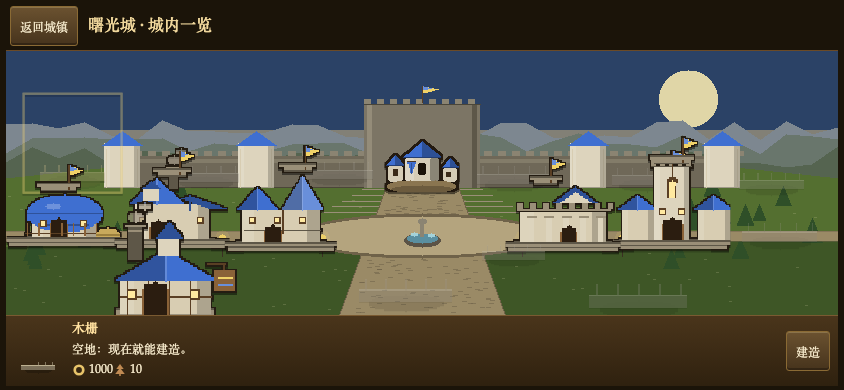
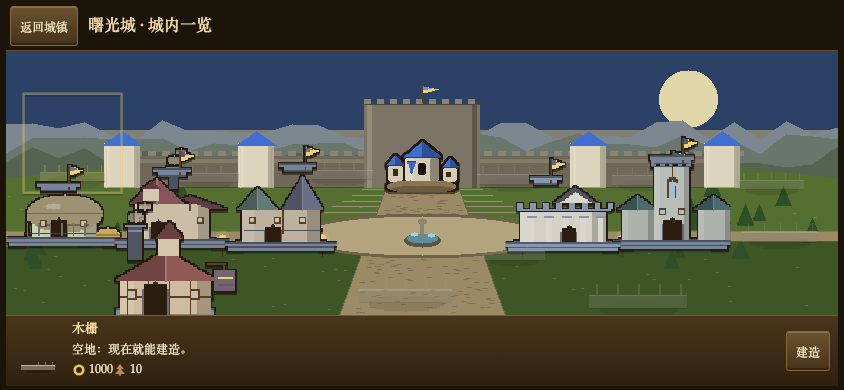
城景建材分化：16 座各有材质，去掉一城蓝顶白墙
- 新增 TOWN_BUILDING_MATERIALS / scenePaletteOf：红瓦/茅草/石板/砖窑/铜绿/水晶 16 套，族色退成旗、饰带与轻偏色
- 屋顶族色 22%、墙 8%、石/木 38%，四族同功能建筑色距仍 >=6（S2 16/16）
- probe:townview 加 S7 建材多样性 + N0e sameTone 负向臂；50 门全绿（3m58s）
- 重出 16 张 x8、实拍和全建成预览；目检抓到并修掉红瓦泛紫

Changed region(s): [[0.5853, 0.4, 0.8626, 0.6462], [0.0, 0.4615, 0.2773, 0.7692], [0.154, 0.4, 0.4005, 0.6462]]

diff --git a/homm-web/src/render/townSceneArt.ts b/homm-web/src/render/townSceneArt.ts
@@ -30,6 +30,13 @@ export const TOWN_BUILDING_IDS = [
 export const TOWN_ROAD_COLOR = '#9a8a66';
 export const TOWN_PLAZA_COLOR = '#b4a47e';
 
+/** 负向臂：`sameShape` 全塌成尖顶小屋，`sameBase` 底子同形，`noStreet` 抽掉街道，
+ *  `sameTone` 把所有建材塌回"一族一色"（用户批评的旧配色）。 */
+let sceneArtBreaks = { sameShape: false, sameBase: false, noStreet: false, sameTone: false };
+export function setSceneArtBreaks(v: Partial<typeof sceneArtBreaks>): void {
+  sceneArtBreaks = { ...sceneArtBreaks, ...v };
+}
+
 interface ScenePalette {
   wall: string; wallDark: string; wallLite: string;
   roof: string; roofDark: string;
@@ -41,26 +48,64 @@ interface ScenePalette {
   outline: string;
 }
 
-function paletteOf(owner: SpriteOwner): ScenePalette {
+/**
+ * 16 座各自的建材。阵营色只作 22% 的轻微偏色 + 旗/饰带/窗光，
+ * 所以同一座城里能同时看到红瓦、茅草、石板、砖窑、铜绿和水晶，
+ * 但四族同功能建筑仍能被认出来（探针 S2 量四族色距）。
+ */
+export interface BuildingMaterial { roof: string; wall: string; cloth: string; glass: string; stone: string; }
+export const TOWN_BUILDING_MATERIALS: Readonly<Record<string, BuildingMaterial>> = {
+  tavern:   { roof: '#a95432', wall: '#d9c39a', cloth: '#8c3f28', glass: '#ffe3a0', stone: '#a89a7e' },
+  market:   { roof: '#c28a3a', wall: '#e2cba3', cloth: '#d8b05c', glass: '#f6d88a', stone: '#a89a7e' },
+  townhall: { roof: '#55677f', wall: '#cfc6a8', cloth: '#3f4f66', glass: '#bcd8e0', stone: '#9a9584' },
+  workshop: { roof: '#5b534a', wall: '#9d7f67', cloth: '#7a4a32', glass: '#e8c98a', stone: '#8a7a68' },
+  wall1:    { roof: '#7a4f2f', wall: '#8a6238', cloth: '#6a4226', glass: '#f0d268', stone: '#9a8f78' },
+  wall2:    { roof: '#8f3f35', wall: '#a9a393', cloth: '#5e5748', glass: '#e8d6a0', stone: '#9a8f78' },
+  wall3:    { roof: '#6f6a5a', wall: '#bdb39d', cloth: '#8a7c62', glass: '#e8d6a0', stone: '#9a8f78' },
+  banner:   { roof: '#9a6a42', wall: '#b9a084', cloth: '#5a3f24', glass: '#ffe9a0', stone: '#9a8f78' },
+  dwell1:   { roof: '#b99a58', wall: '#cfd3a8', cloth: '#8a7a48', glass: '#e0e8b0', stone: '#9a8f78' },
+  dwell2:   { roof: '#9c4b3c', wall: '#d8c5a2', cloth: '#7a3a2e', glass: '#ffe0a0', stone: '#9a8f78' },
+  dwell3:   { roof: '#6a7f5a', wall: '#c9b79a', cloth: '#8b6b4a', glass: '#ffe9a0', stone: '#9a8f78' },
+  dwell4:   { roof: '#7d7166', wall: '#e0d9c4', cloth: '#6a6258', glass: '#cfe0e8', stone: '#b3ac98' },
+  dwell5:   { roof: '#4d6b55', wall: '#b7b8a8', cloth: '#3c5544', glass: '#cfe0d8', stone: '#9a8f78' },
+  guild1:   { roof: '#4f9c86', wall: '#aeb9ad', cloth: '#3a7a6a', glass: '#a8e0d0', stone: '#948f80' },
+  guild2:   { roof: '#6c5a9a', wall: '#c8bed0', cloth: '#8372b3', glass: '#d8c8f0', stone: '#9a8f78' },
+  guild3:   { roof: '#7d5aa6', wall: '#b3a6b8', cloth: '#5a3f7a', glass: '#8fe6e0', stone: '#8a7f96' },
+};
+
+function paletteOf(owner: SpriteOwner, id?: string): ScenePalette {
   const { roof: faction } = ownerPalette(owner);
-  const wall = owner === 'p1' ? '#d8cdb2' : owner === 'p2' ? '#b9a084' : owner === 'p3' ? '#c6d0a6' : '#bfb4c6';
+  const mat = id && !sceneArtBreaks.sameTone ? TOWN_BUILDING_MATERIALS[id] : undefined;
+  const factionWall = owner === 'p1' ? '#d8cdb2' : owner === 'p2' ? '#b9a084' : owner === 'p3' ? '#c6d0a6' : '#bfb4c6';
+  const roof = mat ? mix(mat.roof, faction, 0.22) : faction;
+  const wall = mat ? mix(mat.wall, faction, 0.08) : factionWall;
+  const stone = mat ? mix(mat.stone, faction, 0.38) : '#9a8f78';
+  const woodMat = mat ? mix('#8a6238', mat.roof, 0.18) : (owner === 'p4' ? '#6a4a34' : '#8a6238');
+  const wood = mat ? mix(woodMat, faction, 0.38) : woodMat;
+  const clothBase = mat?.cloth ?? shade(faction, 0.22);
   return {
     wall,
     wallDark: shade(wall, -0.22),
     wallLite: shade(wall, 0.14),
-    roof: faction,
-    roofDark: shade(faction, -0.28),
-    wood: owner === 'p4' ? '#6a4a34' : '#8a6238',
+    roof,
+    roofDark: shade(roof, -0.28),
+    wood,
     woodDark: '#5a3f24',
     accent: owner === 'p1' ? '#f0d268' : owner === 'p2' ? '#ff9a4a' : owner === 'p3' ? '#b6e07a' : '#d8a8ff',
-    glass: owner === 'p4' ? '#e0b0ff' : '#ffe9a0',
-    stone: '#9a8f78',
-    stoneDark: '#5e5748',
-    cloth: shade(faction, 0.22),
-    clothDark: shade(faction, -0.12),
+    glass: mat ? mix(mat.glass, faction, 0.30) : (owner === 'p4' ? '#e0b0ff' : '#ffe9a0'),
+    stone,
+    stoneDark: shade(stone, -0.38),
+    cloth: mat ? mix(clothBase, faction, 0.45) : shade(faction, 0.22),
+    clothDark: shade(clothBase, -0.12),
     metal: '#7d8790',
     outline: '#241c12',
   };
+}
+
+/** 给闸门读"这座实际用的建材"，不许探针自己抄一份色表。 */
+export function scenePaletteOf(owner: SpriteOwner, id: string): Pick<ScenePalette, 'roof' | 'wall' | 'cloth' | 'glass'> {
+  const p = paletteOf(owner, id);
+  return { roof: p.roof, wall: p.wall, cloth: p.cloth, glass: p.glass };
 }
 
 /* ------------------------------------------------------------------ 笔法 */
@@ -463,16 +508,10 @@ const RECIPES: Record<string, Recipe> = {
   },
 };
 
-/** 闸门负向对照：`sameShape` 全塌成尖顶小屋，`sameBase` 底子同形，`noStreet` 抽掉街道。 */
-let sceneArtBreaks = { sameShape: false, sameBase: false, noStreet: false };
-export function setSceneArtBreaks(v: Partial<typeof sceneArtBreaks>): void {
-  sceneArtBreaks = { ...sceneArtBreaks, ...v };
-}
-
 /** 80×80 的场景建筑；tier 只影响附加装饰，不改骨架。 */
 export function buildSceneBuilding(owner: SpriteOwner, id: string, tier = 1): PixBuf {
   const pb = new PixBuf(SCENE_BUILDING_SIZE, SCENE_BUILDING_SIZE);
-  const p = paletteOf(owner);
+  const p = paletteOf(owner, id);
   const recipe = sceneArtBreaks.sameShape ? genericSpire : (RECIPES[id] ?? RECIPES.tavern!);
   groundShadow(pb, SCENE_BUILDING_SIZE / 2, B + 2, 28);
   const t = Math.max(1, Math.min(3, tier | 0));

diff --git a/production/m9-town-view-2026-11-19/README.md b/production/m9-town-view-2026-11-19/README.md
@@ -9,6 +9,22 @@
 1. **单体：按建筑原型重新设计剪影**，不再共用一套尖顶模板。
 2. **整体：先搭城市骨架**——城堡远景、城墙塔楼、城门、主干道、中央广场、喷泉、支路、路灯——再让建筑沿街按远/中/近三档落位。
 
+第二轮实拍又得到一条批评：**“整体好看很多，但所有房都是蓝房顶、白房墙，略显单调。”** 这条也对：上一版虽然轮廓分开了，但材质仍是一族一色，同一座城里 16 座共享同一个屋顶色。于是补了第三轮**建材分化**：每座建筑一套材质，阵营色退成旗、饰带、窗光与轻微偏色（屋顶 22%、墙 8%、石/木 38%），既能在一城里看到红瓦、茅草、石板、砖窑、铜绿和水晶，也仍能看出是谁的城。
+
+## 建材语言（16 套）
+
+| 材质族 | 建筑 | 观感 |
+|---|---|---|
+| 暖陶瓦 | 酒馆、木屋、排屋 | 红陶 / 砖红坡顶，配奶油灰泥墙 |
+| 市集布棚 | 市场 | 赭黄条纹棚 + 木摊 |
+| 石板 / 冷灰 | 市政厅、宅邸、庄园、要塞 | 蓝灰或暖灰石墙、平顶城垛，配浅色墙 |
+| 茅草 / 麦秆 | 农舍、木栅 | 弧顶草屋、深色木栅 |
+| 砖窑 / 铁锈 | 工坊 | 锯齿厂棚 + 烟熏砖墙 + 水车 |
+| 铜绿 / 学院紫 | 一阶、二阶行会 | 穹顶铜绿与紫石，配星盘 |
+| 水晶 | 三阶行会 | 青色晶体 + 法环，仍是全场唯一的尖塔 |
+
+阵营色没有被删掉：旗、墙头漆带、钟面、窗光和路灯仍是四族色；只是不再把整片屋顶染成阵营色。
+
 ## 建筑语言（16 座逐类设计）
 
 | 类别 | 建筑 | 轮廓语言 | 识别件 |
@@ -43,10 +59,10 @@
 
 | 文件 | 改动 |
 |---|---|
-| `src/render/townSceneArt.ts` | 16 座原型重画；新增 `castleBackdrop()` / `townInfrastructure()`；`TOWN_PLOTS` 带 `scale`；负向臂 `sameShape` / `sameBase` / `noStreet` |
+| `src/render/townSceneArt.ts` | 16 座原型重画；新增 `castleBackdrop()` / `townInfrastructure()`；`TOWN_PLOTS` 带 `scale`；新增 `TOWN_BUILDING_MATERIALS` / `scenePaletteOf()`；负向臂 `sameShape` / `sameBase` / `noStreet` / `sameTone` |
 | `src/ui/TownDialog.ts` | 地块按 `plot.scale` 设宽，城堡落到城门前 |
-| `tools/probes/townview.mjs` | 新增 S5「16 座两两 IoU <0.88」、S6「路面色像素 >5000」与 N0d「抽掉街道 = 0」；S4 改测四族特征区域 |
-| `tools/GATES.md` | 重登记 `probe:townview` 的 S0–S6 / N0 / N0b / N0d / U0–U8 / N1–N3 |
+| `tools/probes/townview.mjs` | 新增 S5「16 座两两 IoU <0.88」、S6「路面色像素 >5000」、S7「16 套建材且帧里真画出」与 N0d「抽掉街道 = 0」/ N0e「sameTone 一族一色」；S4 改测四族特征区域 |
+| `tools/GATES.md` | 重登记 `probe:townview` 的 S0–S7 / N0 / N0b / N0d / N0e / U0–U8 / N1–N3 |
 | `production/town-scene-redraw-2026-11-19/` | 新 ×8 单体、四族底子、实拍与全建成预览 |
 
 ## 读数（`node tools/probes/townview.mjs --gate` → rc=0）
@@ -54,24 +70,25 @@
 - 美术层：64 张 80×80 无空帧；四族结构逐像素相同、材质色距全部 ≥6；16 座 L3 面积全大于 L1。
 - **S5 轮廓多样性：16 座两两最大 IoU 0.839 <0.88**；上一版同款尖顶会到 1.000。
 - **S6 城市骨架：路面色 15,949 px**；`noStreet` 负向臂为 0。
-- 四族底子特征区域边缘 IoU 最大 0.626；`sameBase` 负向臂 1.000。
+- **S7 建材多样性：屋顶 16 色 / 8 个色相族、墙 16 色 / 6 族，16/16 帧都画出自己的建材色**；`sameTone` 负向臂塌回屋顶 1 色 / 墙 1 色。
+- 四族底子特征区域边缘 IoU 最大 0.626；`sameBase` 负向臂 1.000。四族同功能建筑材质色距仍全部 ≥6（S2 16/16）。
 - 真 Chrome 844×390：城堡 + 16 地块；built 6 / unbuilt 10、错画 0；深度排序正确、`outside=0`；源图 80px 实际渲染 112~140px；背景按 832×275 绘制；点已建/未建都出正确详情。
-- 负向臂：`sameShape` 1.000、`sameBase` 1.000、`noStreet` 0、`devtownview=0` 入口消失、`devhiretab=market` 招募入口退回市场、`devnoconvert=1` 转换按钮消失。
+- 负向臂：`sameShape` 1.000、`sameBase` 1.000、`noStreet` 0、`sameTone` 1 色 / 1 色、`devtownview=0` 入口消失、`devhiretab=market` 招募入口退回市场、`devnoconvert=1` 转换按钮消失。
 
 ## 目检（铁律 1）
 
-- `x8/bld-*-x8.png`：16 张单张逐张看过。修掉的缺陷：`wall3` 四族色距只有 4.2（补族色带后过闸）；`wall1`/`wall2` 两堵墙 IoU 曾到 0.902（把 `wall2` 改成两座 44px 高圆塔后分开，现在全表最差一对是 `wall1`/`dwell4` = 0.839）；旧版 `guild3` 尖顶越界与 L1/L3 同形。
+- `x8/bld-*-x8.png`：16 张单张逐张看过。修掉的缺陷：`wall3` 四族色距只有 4.2（补族色带后过闸）；`wall1`/`wall2` 两堵墙 IoU 曾到 0.902（把 `wall2` 改成两座 44px 高圆塔后分开，现在全表最差一对是 `wall1`/`dwell4` = 0.839）；旧版 `guild3` 尖顶越界与 L1/L3 同形；建材第一版阵营偏色 38% 让红瓦也泛紫，降到 22% 并把族色挪到石/木/旗后才定稿。
 - `x8/base-p*-x8.png`：四族底子逐张看过；加上城墙/街道后仍保留松林、熔岩、树冠、断柱四种不同前景。
-- `townview-844x390.png`：实拍确认城堡、城门、主干道、广场喷泉可读；建筑有遮挡但不挡点击；详情条与按钮不重叠。
-- `townview-allbuilt-preview.png`：全建成构图确认 16 座都有落位，主路和广场没有被完全盖住。
+- `townview-844x390.png`：实拍确认城堡、城门、主干道、广场喷泉可读；已建建筑能看到草顶、红瓦、石板、蓝灰等不同材质，不再是清一色蓝顶白墙；建筑有遮挡但不挡点击；详情条与按钮不重叠。
+- `townview-allbuilt-preview.png`：全建成构图确认 16 座都有落位，主路和广场没有被完全盖住；红瓦/茅草/铜绿/水晶混在一起仍读得出是一座城。
 
 ## 回归
 
-`probe:townview` 全绿；`tools/GATES.md` 登记的 **50 道门全绿（3m59s，rc 全 0）**。未改动经济、战斗、存档与任务流程，只改城景呈现与对应闸门。
+`probe:townview` 全绿；`tools/GATES.md` 登记的 **50 道门全绿（3m58s，rc 全 0）**。未改动经济、战斗、存档与任务流程，只改城景呈现、建材配色与对应闸门。
 
 ## 边界
 
 - 仍是固定地块布局，不做可拖动连续城镇地图；全建成时建筑按 `y` 互相遮挡，这是有意的纵深。
-- 四族建筑**结构相同、材质不同**的口径没有变；族差异主要来自底子与材质。
+- 四族建筑**轮廓相同、建材各座独立**的口径：族差异来自底子 + 旗/饰带 + 屋顶/墙/石/木的轻微偏色；`sameTone` 负向臂证明这套偏色不是摆设。
 - 城景不新增第 6 个标签页，R4「每页纵向可点行 ≤5」不变。
 - 本批只改呈现，不改决策 59 的存量转换规则。

diff --git a/homm-web/tools/GATES.md b/homm-web/tools/GATES.md
@@ -95,7 +95,7 @@
 
 | `probe:mineart` | `probes/mineart.mjs` | 门 | — | ✓ | ✓ `requireFile` | — | **M9 新增（2026-11-19）· 七种矿各一个剪影**。旧的"七顶同款帐篷只换矿石色"已删。纯 Node、不起 Chrome：**[M1]** 7 帧齐、32×42、无空帧；**[M2]** 21 对两两 alpha IoU **≤0.75**（实测 max **0.741** ore/crystal）；**[M3]** 每型一根可量识别件（金=双金锭尖堆、木=两根剥皮原木、石=宽阶梯崖壁、宝石=三根晶簇、水晶=五根分离晶柱、硫磺=y≤5 细颈烟云、水银=矮宽双罐浅池）；**[M4]** 七帧真注册进图集（画了有人用）。**负向对照 `sameShape`**：七型退回同款帐篷 ⇒ IoU **1.000**，[M2] 必红。⚠ 阈值 0.75 是"认不认得出"口径，不是"面积够不够"；`--png=<dir>` 导出七张 ×8 单张目检图（已存 `production/m9-mine-art-2026-11-19/x8/`），形状关必须人眼再过一遍。 |
 
-| `probe:townview` | `probes/townview.mjs` | 门 | ✓ | ✓ | ✓ `requireFile` | — | **M9 城景第二版（2026-11-19）· 按实拍批评重做**。旧 `townViewArt.ts` 已删；`townSceneArt.ts` 把 16 座按建筑原型重画（弧顶长屋 / 锯齿厂棚 / 平顶钟楼 / 柱廊宅 / 圆塔 / 穹顶 / 水晶尖塔…），底子加入**城堡远景 + 主干道 + 广场喷泉 + 路灯**，地块按远/中/近三档缩放。美术层纯 Node：**[S0]** 16×4=64 张 80px 无空帧；**[S1]** 四族 alpha 掩码逐像素相同；**[S2]** 四族材质色距 ≥6（16/16，wall3 补族色带）；**[S3]** 16 座 L3 面积都大于 L1；**[S4]** 四族底子**特征区域**边缘掩码两两 IoU **0.626 <0.65**；**[S5]** 16 座建筑两两 IoU **0.839 <0.88**（上一版"12 座同款尖顶"必红）；**[S6]** 路面色像素 **15949 >5000**。**负向 N0** `sameShape` ⇒ 16 座两两 IoU 1.000；**N0b** `sameBase` ⇒ 底子 IoU 1.000；**N0d** `noStreet` ⇒ 路面色 0。真 Chrome 844×390：**[U0]** 入口能开覆盖层；**[U1]** 城堡 + 16 地块；**[U2]** 只画已建：built **6** / unbuilt **10**、错画 0；**[U3]** y 深度排序、`outside=0`、80px 源图渲染 **112~140px**；**[U4]** 已建全用 `scene_p1_*` 帧，5 座 `_u3` 上屏；**[U5]** 背景按舞台实际像素 832×275 绘制；**[U6]** 点已建出详情大图、点空地出建造/升级按钮；**[U7]** 英雄招募在「招募」页；**[U8]** 驻军页转换按钮造价写在标签上、点了真换帧。**负向 N1** `devtownview=0`；**N2** `devhiretab=market`；**N3** `devnoconvert=1`。⚠ `--shot=<dir>` 导出实拍；16 张建筑 ×8 + 4 张底子 + 全建成排版预览在 `production/town-scene-redraw-2026-11-19/`。城景不新增第 6 个标签页，R4 ≤5 页不变。 |
+| `probe:townview` | `probes/townview.mjs` | 门 | ✓ | ✓ | ✓ `requireFile` | — | **M9 城景第二版（2026-11-19）· 按实拍批评重做**。旧 `townViewArt.ts` 已删；`townSceneArt.ts` 把 16 座按建筑原型重画（弧顶长屋 / 锯齿厂棚 / 平顶钟楼 / 柱廊宅 / 圆塔 / 穹顶 / 水晶尖塔…），底子加入**城堡远景 + 主干道 + 广场喷泉 + 路灯**，地块按远/中/近三档缩放；第三轮又按实拍补了**16 套独立建材**（红瓦/茅草/石板/砖窑/铜绿/水晶…），阵营色只做旗、饰带与轻微偏色。美术层纯 Node：**[S0]** 16×4=64 张 80px 无空帧；**[S1]** 四族 alpha 掩码逐像素相同；**[S2]** 四族材质色距 ≥6（16/16，wall3 补族色带）；**[S3]** 16 座 L3 面积都大于 L1；**[S4]** 四族底子**特征区域**边缘掩码两两 IoU **0.626 <0.65**；**[S5]** 16 座建筑两两 IoU **0.839 <0.88**（上一版"12 座同款尖顶"必红）；**[S6]** 路面色像素 **15949 >5000**；**[S7]** 16 座各有建材：屋顶/墙各 **16 色**，p1 屋顶 **8 个色相族**、墙 **6 族**，且 16/16 帧真画出自己的建材色。**负向 N0** `sameShape` ⇒ 16 座两两 IoU 1.000；**N0b** `sameBase` ⇒ 底子 IoU 1.000；**N0d** `noStreet` ⇒ 路面色 0；**N0e** `sameTone` ⇒ 建材塌回屋顶 1 色 / 墙 1 色（用户批评的蓝顶白墙）。真 Chrome 844×390：**[U0]** 入口能开覆盖层；**[U1]** 城堡 + 16 地块；**[U2]** 只画已建：built **6** / unbuilt **10**、错画 0；**[U3]** y 深度排序、`outside=0`、80px 源图渲染 **112~140px**；**[U4]** 已建全用 `scene_p1_*` 帧，5 座 `_u3` 上屏；**[U5]** 背景按舞台实际像素 832×275 绘制；**[U6]** 点已建出详情大图、点空地出建造/升级按钮；**[U7]** 英雄招募在「招募」页；**[U8]** 驻军页转换按钮造价写在标签上、点了真换帧。**负向 N1** `devtownview=0`；**N2** `devhiretab=market`；**N3** `devnoconvert=1`。⚠ `--shot=<dir>` 导出实拍；16 张建筑 ×8 + 4 张底子 + 全建成排版预览在 `production/town-scene-redraw-2026-11-19/`。城景不新增第 6 个标签页，R4 ≤5 页不变。 |
 
 > ★ **表外**（不判过否）：`build`（`tsc` + `postbuild.mjs`）、`typecheck`、`start`/`serve.mjs`、`watch`、`dev`、`assets:mobile`、`mobile:sync`。
 ## 四、三条通用纪律
